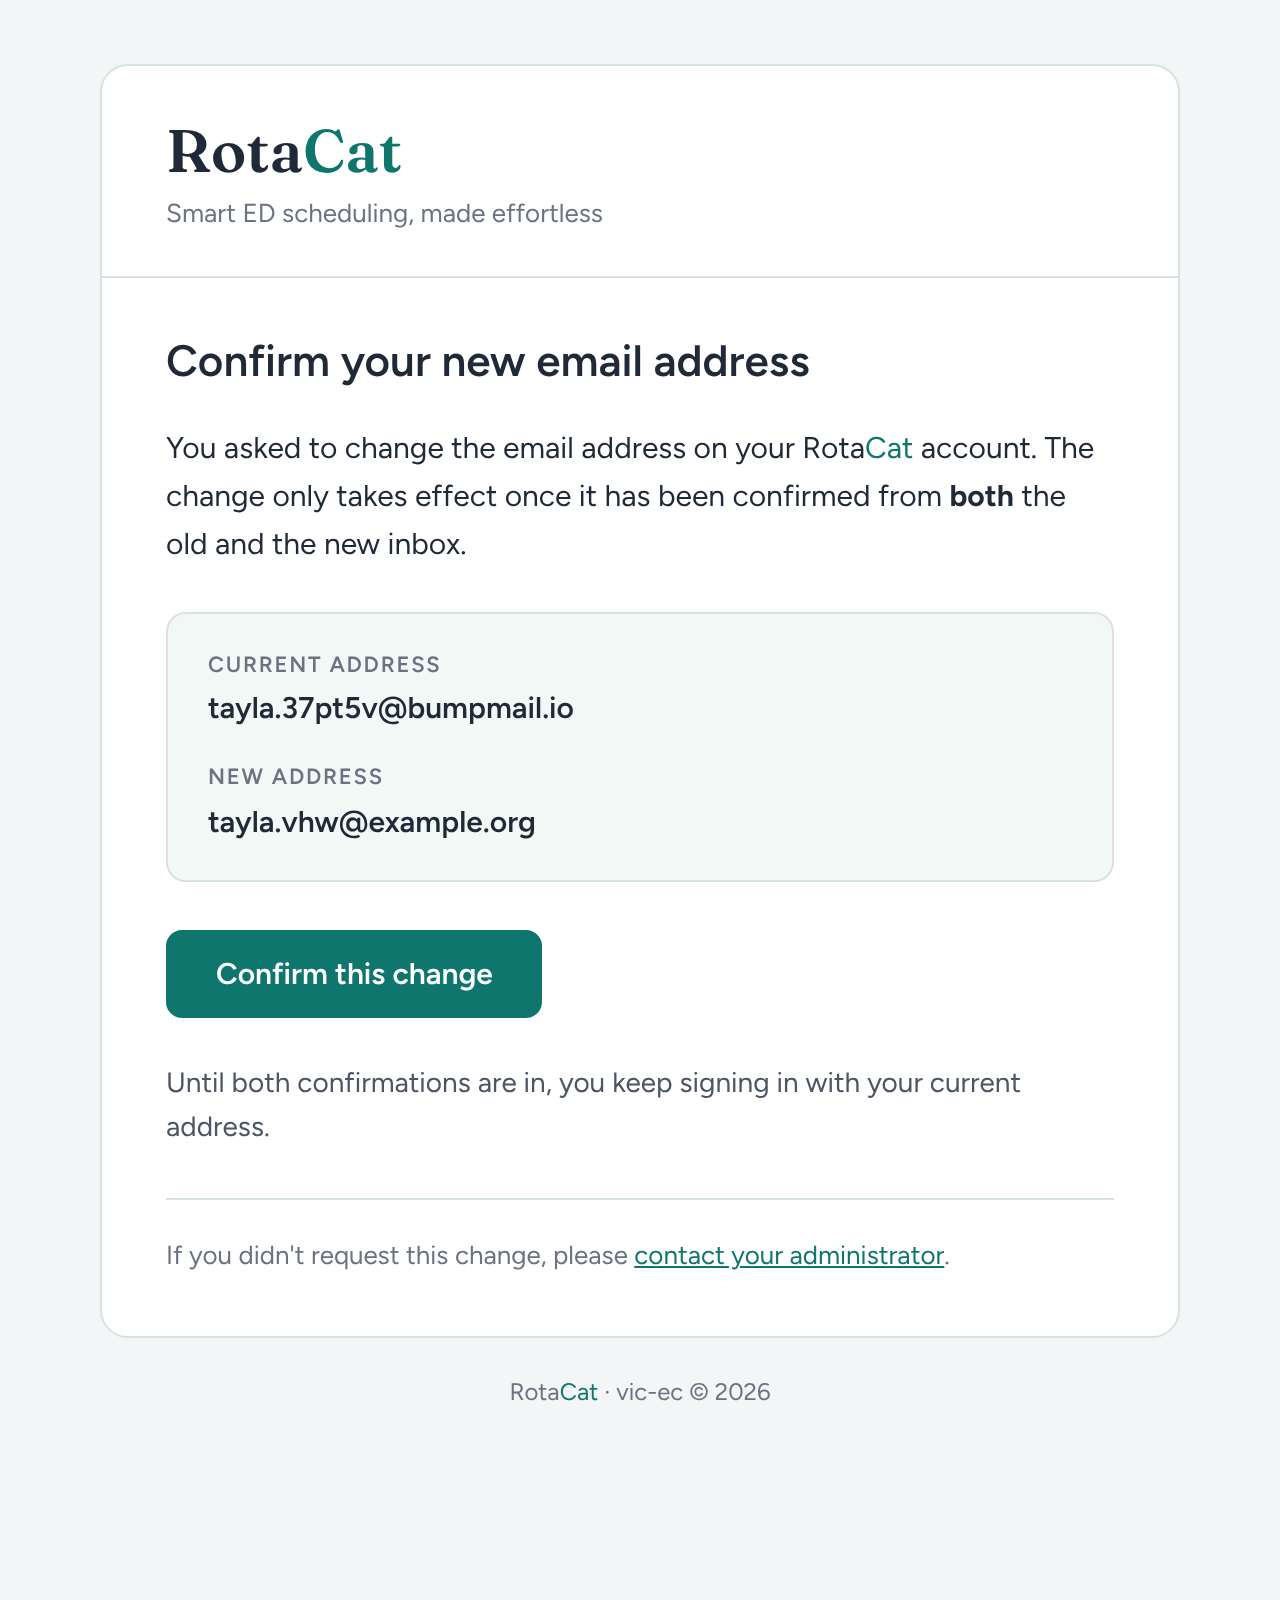
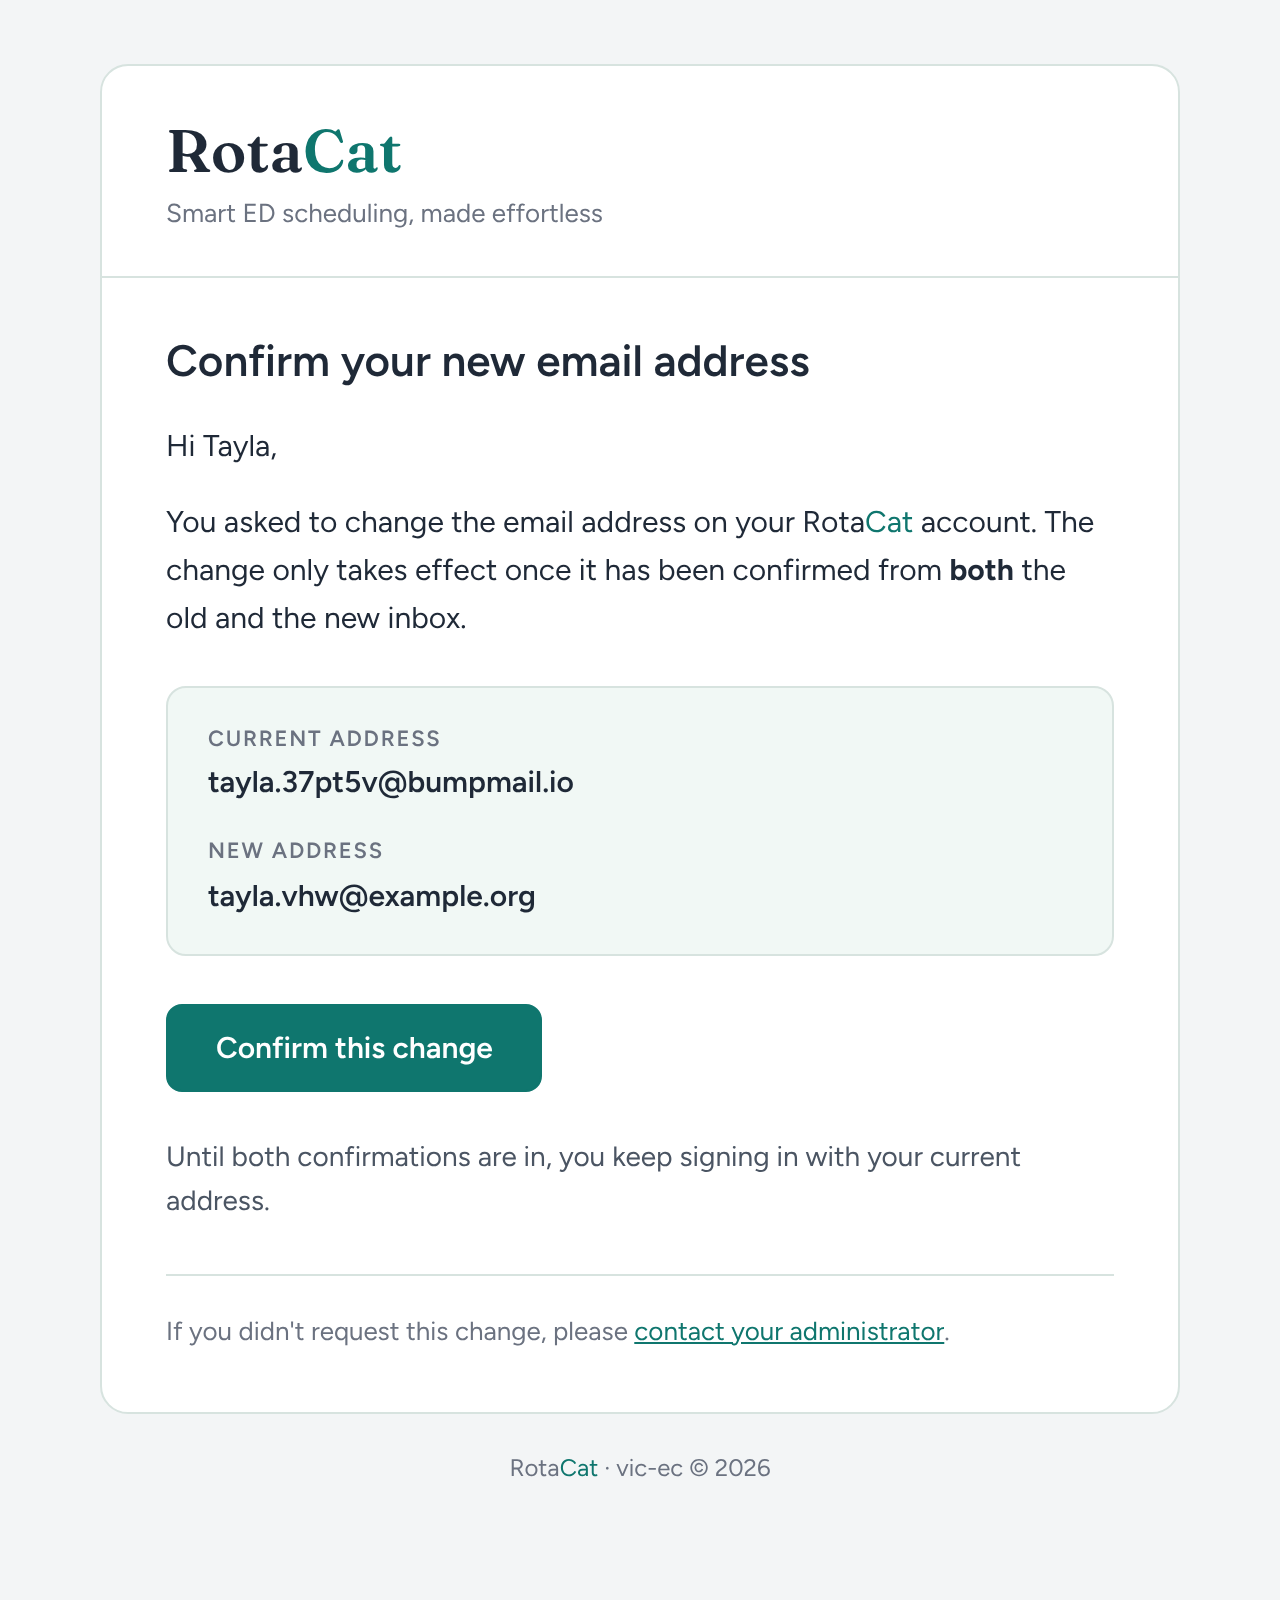
Auth email templates: greet by first name
Claude-Session: https://claude.ai/code/session_012j9w9qJETB1aVZcdoQzmjt

Changed region(s): [[0.125, 0.25, 0.8438, 0.875], [0.5312, 0.9062, 0.5938, 0.9375], [0.4062, 0.9062, 0.4688, 0.9375]]

diff --git a/supabase/templates/change-email.html b/supabase/templates/change-email.html
@@ -54,7 +54,7 @@
             <tr>
               <td style="padding:28px 32px 30px;">
                 <h1 class="rc-ink" style="margin:0 0 16px;font-family:Figtree, -apple-system, BlinkMacSystemFont, 'Segoe UI', Roboto, Helvetica, Arial, sans-serif;font-size:22px;line-height:1.3;font-weight:600;color:#1F2937;">Confirm your new email address</h1>
-                
+                <p class="rc-ink" style="margin:0 0 14px;font-size:15px;line-height:1.55;color:#1F2937;">{{ if .Data.name }}Hi {{ .Data.name }},{{ else }}Hi there,{{ end }}</p>
                 <p class="rc-ink" style="margin:0;font-size:15px;line-height:1.6;color:#1F2937;">You asked to change the email address on your Rota<span class="rc-accent" style="color:#0F766E;">Cat</span> account. The change only takes effect once it has been confirmed from <strong>both</strong> the old and the new inbox.</p>
                 <table role="presentation" width="100%" cellpadding="0" cellspacing="0" class="rc-panel" style="margin:22px 0 0;background-color:#F1F8F5;border:1px solid #D7E3DF;border-radius:10px;">
                   <tr><td style="padding:18px 20px;"><p class="rc-ink-muted" style="margin:0 0 4px;font-family:Figtree, -apple-system, BlinkMacSystemFont, 'Segoe UI', Roboto, Helvetica, Arial, sans-serif;font-size:11px;font-weight:600;line-height:1.4;text-transform:uppercase;letter-spacing:0.08em;color:#6B7280;">Current address</p><p class="rc-ink" style="margin:0 0 16px;font-family:Figtree, -apple-system, BlinkMacSystemFont, 'Segoe UI', Roboto, Helvetica, Arial, sans-serif;font-size:15px;font-weight:600;line-height:1.4;word-break:break-all;color:#1F2937;">{{ .Email }}</p><p class="rc-ink-muted" style="margin:0 0 4px;font-family:Figtree, -apple-system, BlinkMacSystemFont, 'Segoe UI', Roboto, Helvetica, Arial, sans-serif;font-size:11px;font-weight:600;line-height:1.4;text-transform:uppercase;letter-spacing:0.08em;color:#6B7280;">New address</p><p class="rc-ink" style="margin:0 ;font-family:Figtree, -apple-system, BlinkMacSystemFont, 'Segoe UI', Roboto, Helvetica, Arial, sans-serif;font-size:15px;font-weight:600;line-height:1.4;word-break:break-all;color:#1F2937;">{{ .NewEmail }}</p></td></tr>

diff --git a/supabase/templates/confirm-signup.html b/supabase/templates/confirm-signup.html
@@ -54,7 +54,7 @@
             <tr>
               <td style="padding:28px 32px 30px;">
                 <h1 class="rc-ink" style="margin:0 0 16px;font-family:Figtree, -apple-system, BlinkMacSystemFont, 'Segoe UI', Roboto, Helvetica, Arial, sans-serif;font-size:22px;line-height:1.3;font-weight:600;color:#1F2937;">Confirm your email address</h1>
-                
+                <p class="rc-ink" style="margin:0 0 14px;font-size:15px;line-height:1.55;color:#1F2937;">{{ if .Data.name }}Hi {{ .Data.name }},{{ else }}Hi there,{{ end }}</p>
                 <p class="rc-ink" style="margin:0;font-size:15px;line-height:1.6;color:#1F2937;">Thanks for creating a Rota<span class="rc-accent" style="color:#0F766E;">Cat</span> account. Enter this code on the confirmation screen to finish signing up &mdash; it is valid for one hour.</p>
                 <table role="presentation" width="100%" cellpadding="0" cellspacing="0" class="rc-panel" style="margin:22px 0 0;background-color:#F1F8F5;border:1px solid #D7E3DF;border-radius:10px;">
                   <tr><td style="padding:18px 20px;"><p class="rc-ink-muted" style="margin:0 0 4px;font-family:Figtree, -apple-system, BlinkMacSystemFont, 'Segoe UI', Roboto, Helvetica, Arial, sans-serif;font-size:11px;font-weight:600;line-height:1.4;text-transform:uppercase;letter-spacing:0.08em;color:#6B7280;">Confirmation code</p><p class="rc-ink" style="margin:0;font-family:'JetBrains Mono', 'SFMono-Regular', Consolas, 'Liberation Mono', Menlo, monospace;font-size:32px;font-weight:600;line-height:1.2;letter-spacing:0.22em;color:#1F2937;text-align:center;">{{ .Token }}</p></td></tr>

diff --git a/supabase/templates/reset-password.html b/supabase/templates/reset-password.html
@@ -54,7 +54,7 @@
             <tr>
               <td style="padding:28px 32px 30px;">
                 <h1 class="rc-ink" style="margin:0 0 16px;font-family:Figtree, -apple-system, BlinkMacSystemFont, 'Segoe UI', Roboto, Helvetica, Arial, sans-serif;font-size:22px;line-height:1.3;font-weight:600;color:#1F2937;">Reset your password</h1>
-                
+                <p class="rc-ink" style="margin:0 0 14px;font-size:15px;line-height:1.55;color:#1F2937;">{{ if .Data.name }}Hi {{ .Data.name }},{{ else }}Hi there,{{ end }}</p>
                 <p class="rc-ink" style="margin:0;font-size:15px;line-height:1.6;color:#1F2937;">We received a request to reset the password for the Rota<span class="rc-accent" style="color:#0F766E;">Cat</span> account registered to <strong>{{ .Email }}</strong>. Use the button below to choose a new one.</p>
                 
                 <table role="presentation" cellpadding="0" cellspacing="0" style="margin:24px 0 0;">
